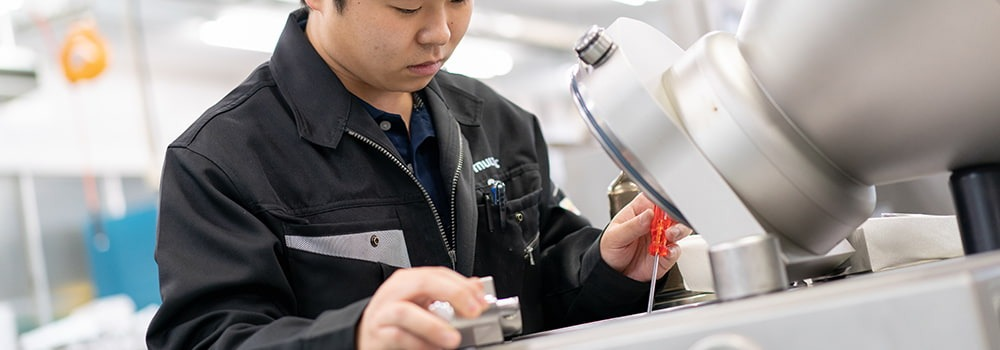
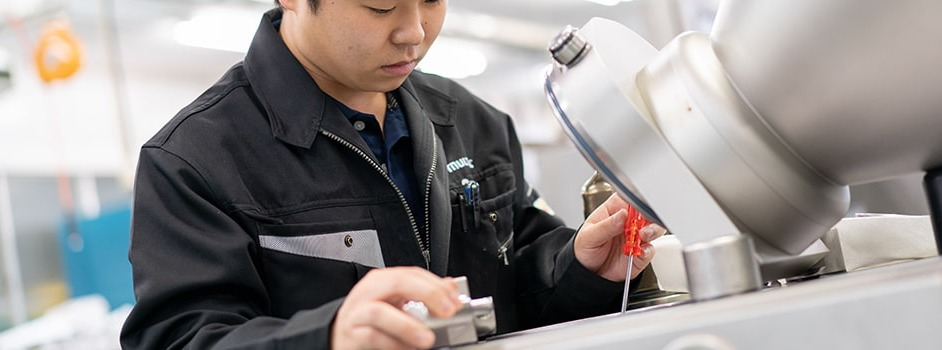
fix: WF13 の「主なメンテナンス内容」を小さくし画像を枠外へ
ユーザー指示。①（タイトル横）と同じ並びに揃えた。

- グレーの枠（.wf-box）をラッパーから外して左カラムだけに付けた
  → 枠は全幅1152px から 700px になり、画像は枠外の右側に並ぶ
- 列幅を①と同じ `1fr 420px` / gap 32 に統一
- align-items:stretch ＋ height:100% で、枠と画像の天地を揃えた（ともに156px）
- 枠比が 2.857 → 2.686 に変わったため support-pma.jpg を切り直した
  （1000×350 → 942×350。左26/右32 を切り、被写体は中央のまま）

diff --git a/13_service-aftersales.html b/13_service-aftersales.html
@@ -117,10 +117,10 @@ footer { background:#f5f7fa; color:#333; padding:48px 0 0; margin-top:60px; font
 .mv-title { color:#fff; font-size:38px; font-weight:900; letter-spacing:2px; margin-bottom:10px; text-shadow:0 2px 8px rgba(0,0,0,.4); }
 .mv-en { color:rgba(255,255,255,.8); font-size:14px; letter-spacing:4px; }
     .sup-intro { display:grid; grid-template-columns:1fr 420px; gap:32px; align-items:center; border-bottom:1px solid #eee; padding-bottom:32px; margin-bottom:40px; }
-    .sup-pma { display:grid; grid-template-columns:1fr 360px; gap:20px; align-items:center; }
+    .sup-pma { display:grid; grid-template-columns:1fr 420px; gap:32px; align-items:stretch; }
     .sup-photo { width:100%; display:block; object-fit:cover; border-radius:4px; }
     .sup-photo-intro { height:240px; }
-    .sup-photo-pma   { height:126px; }
+    .sup-photo-pma   { height:100%; }
     .sup-photo-parts { height:280px; }
 </style>
 </head>
@@ -174,8 +174,8 @@ footer { background:#f5f7fa; color:#333; padding:48px 0 0; margin-top:60px; font
   <!-- PMA -->
   <div class="wf-section">PMA（予防保全メンテナンス）</div>
   <p style="font-size:14px;line-height:1.9;color:#444;margin-bottom:20px">突発的な設備停止を防ぐための、計画的なメンテナンス契約です。定期点検・消耗部品の計画交換・設備診断を通じて不具合の兆候を早期に発見し、安定稼働と設備の長寿命化を支援します。</p>
-  <div class="wf-box sup-pma" style="margin-bottom:40px">
-    <div>
+  <div class="sup-pma" style="margin-bottom:40px">
+    <div class="wf-box" style="margin-bottom:0">
       <h3 style="font-size:14px;font-weight:bold;color:#003087;margin-bottom:10px">主なメンテナンス内容</h3>
       <ul style="font-size:14px;line-height:2.2;padding-left:16px;color:#444">
         <li>定期点検と消耗部品の計画的な交換による保守対応</li>
